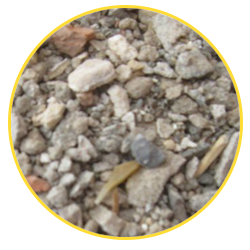
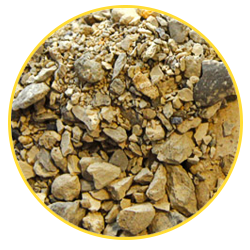
4

diff --git a/index.html b/index.html
@@ -199,7 +199,7 @@
                             <div class="sale__slide slide-sale swiper-slide">
                                 <div class="slide-sale__row">
                                     <div class="slide-sale__img">
-                                        <img src="img/files/otsev1.png" alt="">
+                                        <img src="img/files/otsev.png" alt="">
                                     </div>
                                     <h3 class="slide-sale__name">Отсев из бетона</h3>
                                     <p class="slide-sale__description">Lorem ipsum dolor, sit amet consectetur adipisicing elit. Est dolorem quisquam deserunt iste iusto possimus voluptates laborum ad temporibus numquam.</p>
